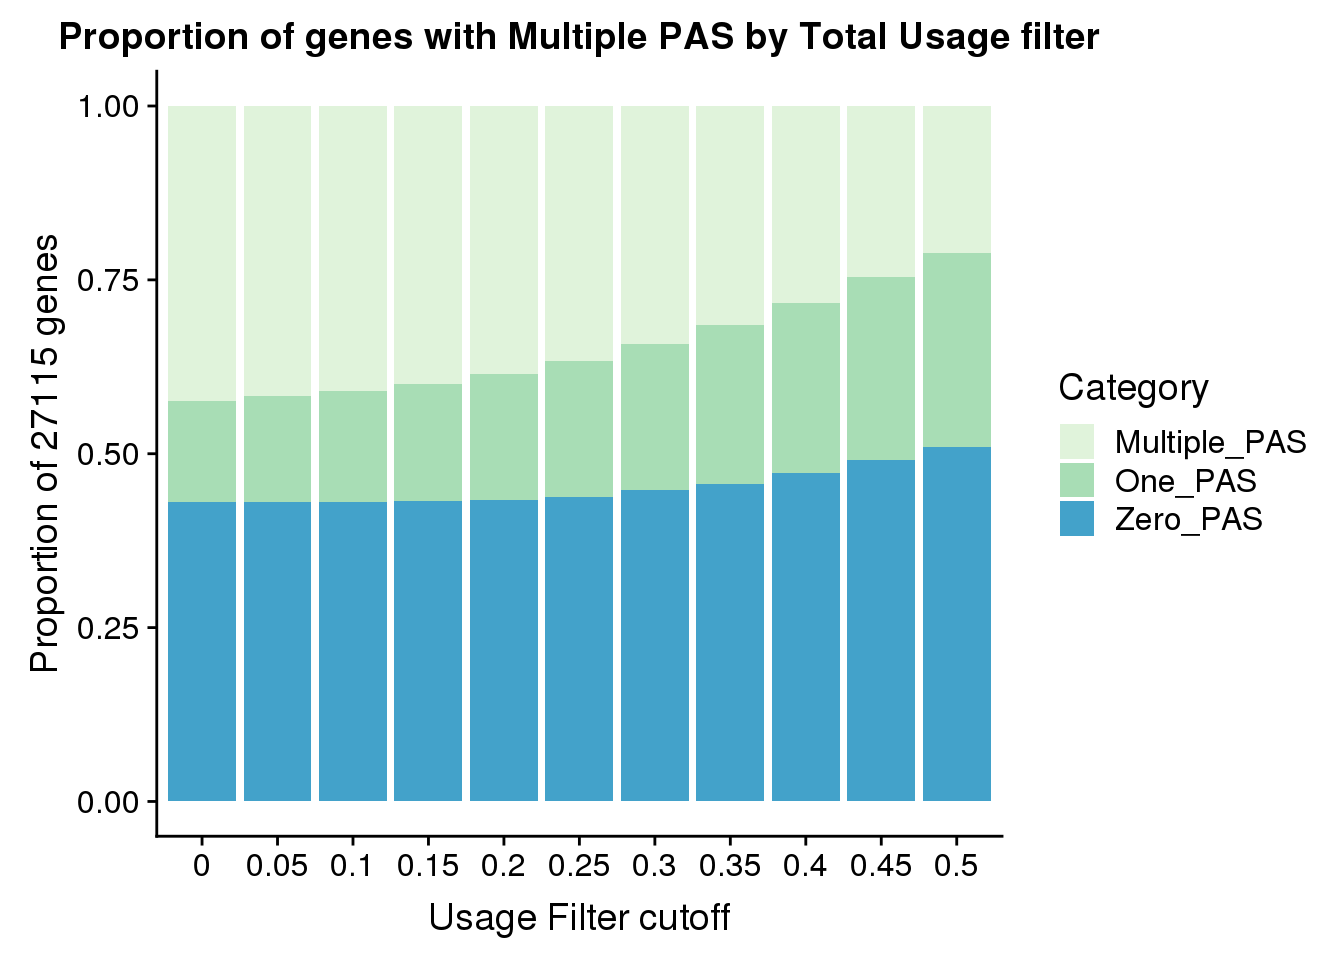
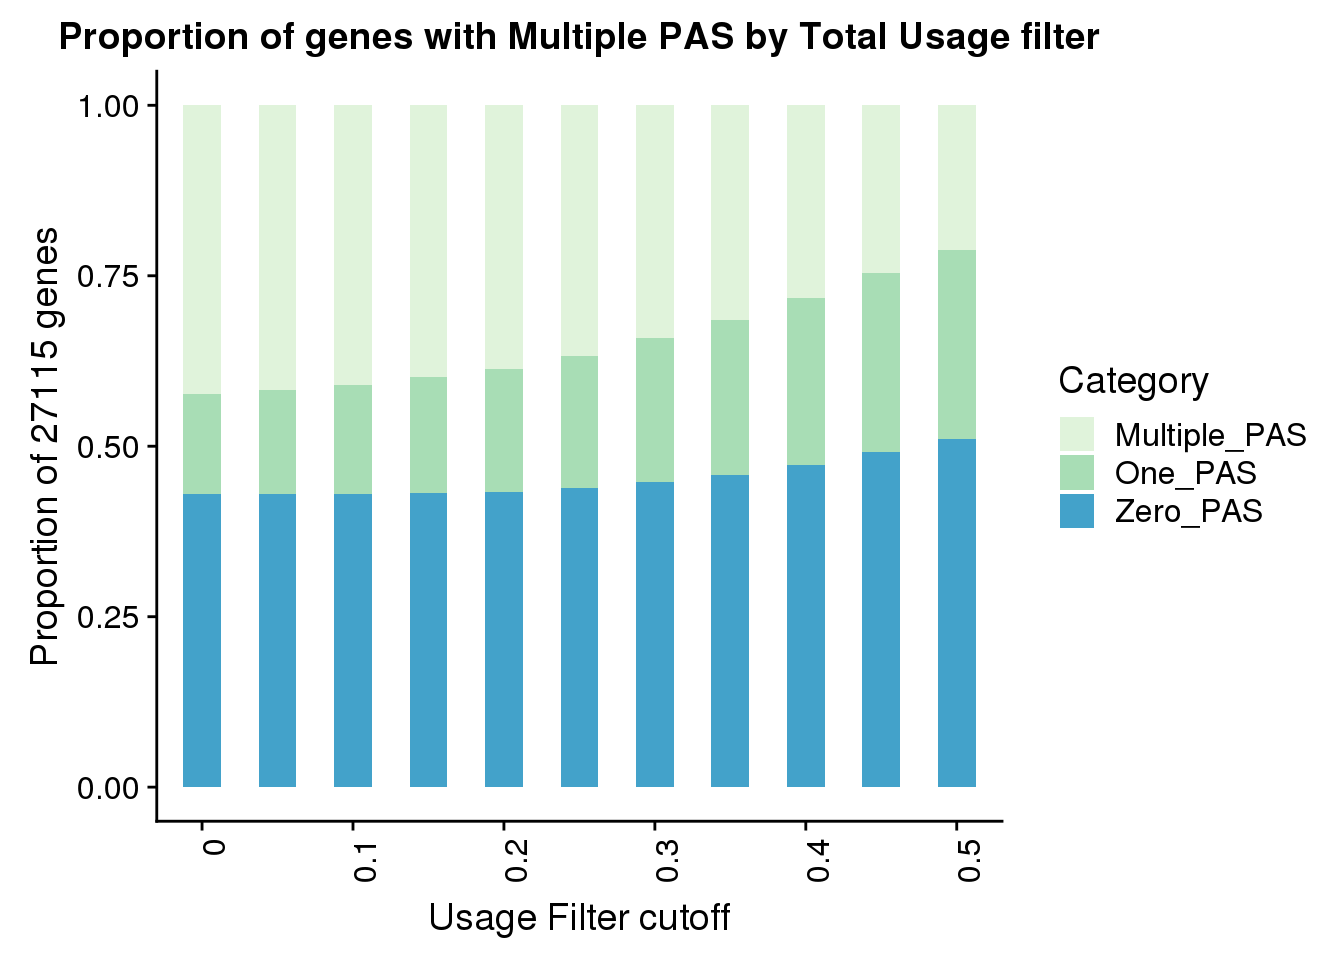
Build site.

Changed region(s): [[0.0, 0.0938, 0.75, 0.9375], [0.7812, 0.375, 0.9688, 0.5625]]

diff --git a/docs/PASdescriptiveplots.html b/docs/PASdescriptiveplots.html
@@ -343,7 +343,7 @@ div.section {
 <div class="tab-content">
 <div id="summary" class="tab-pane fade in active">
 <p>
-<strong>Last updated:</strong> 2019-05-21
+<strong>Last updated:</strong> 2019-05-22
 </p>
 <p>
 <strong>Checks:</strong> <span class="glyphicon glyphicon-ok text-success" aria-hidden="true"></span> 6 <span class="glyphicon glyphicon-exclamation-sign text-danger" aria-hidden="true"></span> 0
@@ -422,10 +422,10 @@ This reproducible <a href="http://rmarkdown.rstudio.com">R Markdown</a> analysis
 <div class="panel panel-default">
 <div class="panel-heading">
 <p class="panel-title">
-<a data-toggle="collapse" data-parent="#workflowr-checks" href="#strongRepositoryversionstrongahrefhttpsgithubcombrimittlemanapaQTLtree2fd13bb267054d96d3d8577887b6473a557e5eedtargetblank2fd13bba"> <span class="glyphicon glyphicon-ok text-success" aria-hidden="true"></span> <strong>Repository version:</strong> <a href="https://github.com/brimittleman/apaQTL/tree/2fd13bb267054d96d3d8577887b6473a557e5eed" target="_blank">2fd13bb</a> </a>
+<a data-toggle="collapse" data-parent="#workflowr-checks" href="#strongRepositoryversionstrongahrefhttpsgithubcombrimittlemanapaQTLtreed3df9c350ef728f099d4faca56938a43dd998102targetblankd3df9c3a"> <span class="glyphicon glyphicon-ok text-success" aria-hidden="true"></span> <strong>Repository version:</strong> <a href="https://github.com/brimittleman/apaQTL/tree/d3df9c350ef728f099d4faca56938a43dd998102" target="_blank">d3df9c3</a> </a>
 </p>
 </div>
[2 lines of base64/hex data omitted]
 <div class="panel-body">
 <p>
 Great! You are using Git for version control. Tracking code development and connecting the code version to the results is critical for reproducibility. The version displayed above was the version of the Git repository at the time these results were generated. <br><br> Note that you need to be careful to ensure that all relevant files for the analysis have been committed to Git prior to generating the results (you can use <code>wflow_publish</code> or <code>wflow_git_commit</code>). workflowr only checks the R Markdown file, but you know if there are other scripts or data files that it depends on. Below is the status of the Git repository when the results were generated:
@@ -435,6 +435,7 @@ Ignored files:
     Ignored:    .DS_Store
     Ignored:    .Rhistory
     Ignored:    .Rproj.user/
+    Ignored:    analysis/figure/
     Ignored:    output/.DS_Store
 
 Untracked files:
@@ -526,8 +527,12 @@ Untracked files:
     Untracked:  code/APAqtl_permuted.out
     Untracked:  code/BothFracDTPlotGeneRegions.err
     Untracked:  code/BothFracDTPlotGeneRegions.out
+    Untracked:  code/BothFracDTPlotGeneRegions_norm.err
+    Untracked:  code/BothFracDTPlotGeneRegions_norm.out
     Untracked:  code/BothFracDTPlotGeneRegions_normalized.sh
     Untracked:  code/DistPAS2Sig.py
+    Untracked:  code/EncodeRNADTPlotGeneRegions.err
+    Untracked:  code/EncodeRNADTPlotGeneRegions.out
     Untracked:  code/FC_UTR.err
     Untracked:  code/FC_UTR.out
     Untracked:  code/FC_UTR.sh
@@ -668,6 +673,7 @@ Untracked files:
 Unstaged changes:
     Modified:   analysis/DiffIsoAnalysis.Rmd
     Modified:   analysis/PASusageQC.Rmd
+    Modified:   analysis/Readdistagainstfeatures.Rmd
     Modified:   analysis/choosePCs.Rmd
     Modified:   analysis/corrbetweenind.Rmd
     Modified:   analysis/nascenttranscription.Rmd
@@ -721,6 +727,40 @@ Message
 </tr>
 </thead>
 <tbody>
+<tr>
+<td>
+Rmd
+</td>
+<td>
+<a href="https://github.com/brimittleman/apaQTL/blob/d3df9c350ef728f099d4faca56938a43dd998102/analysis/PASdescriptiveplots.Rmd" target="_blank">d3df9c3</a>
+</td>
+<td>
+brimittleman
+</td>
+<td>
+2019-05-22
+</td>
+<td>
+fix plots
+</td>
+</tr>
+<tr>
+<td>
+html
+</td>
+<td>
+<a href="https://rawcdn.githack.com/brimittleman/apaQTL/6af55a2e450967786cd727fd0392d030998b45fd/docs/PASdescriptiveplots.html" target="_blank">6af55a2</a>
+</td>
+<td>
+brimittleman
+</td>
+<td>
+2019-05-21
+</td>
+<td>
+Build site.
+</td>
+</tr>
 <tr>
 <td>
 Rmd
@@ -835,12 +875,12 @@ Build site.
 <pre><code>This is workflowr version 1.3.0
 Run ?workflowr for help getting started</code></pre>
 <pre class="r"><code>library(tidyverse)</code></pre>
-<pre><code>── Attaching packages ──────────────────────────────────────────────── tidyverse 1.2.1 ──</code></pre>
+<pre><code>── Attaching packages ──────────────────────────────────────────────────────────────────── tidyverse 1.2.1 ──</code></pre>
 <pre><code>✔ ggplot2 3.1.1       ✔ purrr   0.3.2  
 ✔ tibble  2.1.1       ✔ dplyr   0.8.0.1
 ✔ tidyr   0.8.3       ✔ stringr 1.3.1  
 ✔ readr   1.3.1       ✔ forcats 0.3.0  </code></pre>
-<pre><code>── Conflicts ─────────────────────────────────────────────────── tidyverse_conflicts() ──
+<pre><code>── Conflicts ─────────────────────────────────────────────────────────────────────── tidyverse_conflicts() ──
 ✖ dplyr::filter() masks stats::filter()
 ✖ dplyr::lag()    masks stats::lag()</code></pre>
 <pre class="r"><code>library(reshape2)</code></pre>
@@ -1279,7 +1319,7 @@ FullDF=cbind(FullDF,val=genesbycuttoff_tot(val))
 <p>Melt:</p>
 <pre class="r"><code>fullDF_melt=melt(FullDF,id.vars = &quot;Category&quot;,variable.name = &quot;Cutoff&quot;, value.name = &quot;NGenes&quot;) %&gt;% mutate(propGene=NGenes/nrow(annotation))
 
-ggplot(fullDF_melt,aes(x=Cutoff, y=propGene, by=Category, fill=Category)) + geom_bar( stat=&quot;identity&quot;) + scale_fill_brewer(palette=&quot;GnBu&quot;) + labs(title=&quot;Proportion of genes with Multiple PAS by Total Usage filter&quot;,y=&quot;Proportion of 27115 genes&quot;, x=&quot;Usage Filter cutoff&quot;)</code></pre>
+ggplot(fullDF_melt,aes(x=Cutoff, y=propGene, by=Category, fill=Category)) + geom_bar( stat=&quot;identity&quot;,width = .5) + scale_fill_brewer(palette=&quot;GnBu&quot;) + labs(title=&quot;Proportion of genes with Multiple PAS by Total Usage filter&quot;,y=&quot;Proportion of 27115 genes&quot;, x=&quot;Usage Filter cutoff&quot;) + theme(axis.text.x = element_text(angle = 90, hjust = 1)) + scale_x_discrete(name=&quot;Usage Filter cutoff&quot;, breaks=c(&quot;0&quot;,&quot;0.1&quot;,&quot;0.2&quot;, &quot;0.3&quot;, &quot;0.4&quot;,&quot;0.5&quot;))</code></pre>
 <p><img src="figure/PASdescriptiveplots.Rmd/unnamed-chunk-13-1.png" width="672" style="display: block; margin: auto;" /></p>
 <p>
 <button type="button" class="btn btn-default btn-xs btn-workflowr btn-workflowr-fig" data-toggle="collapse" data-target="#fig-unnamed-chunk-13-1">
@@ -1431,7 +1471,7 @@ FullDF_loc=cbind(FullDF_loc,val=locbycutoff_tot(val))
 <p>Melt:</p>
 <pre class="r"><code>FullDF_loc_melt=melt(FullDF_loc,id.vars = &quot;Location&quot;,variable.name = &quot;Cutoff&quot;, value.name = &quot;NPas&quot;) %&gt;% group_by(Cutoff) %&gt;%  mutate(propPAS=NPas/sum(NPas))
 
-totplotloc=ggplot(FullDF_loc_melt,aes(x=Cutoff, y=propPAS, by=Location, fill=Location)) + geom_bar( stat=&quot;identity&quot;) + scale_fill_brewer(palette=&quot;GnBu&quot;) + labs(title=&quot;PAS location: Total Fraction&quot;,y=&quot;Proportion of PAS&quot;, x=&quot;Usage Filter cutoff&quot;)</code></pre>
+totplotloc=ggplot(FullDF_loc_melt,aes(x=Cutoff, y=propPAS, by=Location, fill=Location)) + geom_bar(width=.5, stat=&quot;identity&quot;) + scale_fill_brewer(palette=&quot;GnBu&quot;) + labs(title=&quot;PAS location\n Total Fraction&quot;,y=&quot;Proportion of PAS&quot;, x=&quot;Usage Filter cutoff&quot;)+ theme(axis.text.x = element_text(angle = 90, hjust = 1)) + scale_x_discrete(name=&quot;Usage Filter cutoff&quot;, breaks=c(&quot;0&quot;,&quot;0.1&quot;,&quot;0.2&quot;, &quot;0.3&quot;, &quot;0.4&quot;,&quot;0.5&quot;))</code></pre>
 <p>Nuclear</p>
 <pre class="r"><code>locbycutoff_nuc=function(fraction){
 nucapaMeananno_filt=nucapaMeananno %&gt;% filter(meanUsage &gt;=fraction) %&gt;% separate(ID, into=c(&quot;chrom&quot;, &quot;start&quot;,&quot;end&quot;, &quot;peakID&quot;),sep=&quot;:&quot;) %&gt;% separate(peakID, into=c(&quot;Gene&quot;,&quot;loc&quot;, &quot;strand&quot;, &quot;peak&quot;),sep=&quot;_&quot;) %&gt;% group_by(loc) %&gt;% summarise(PerLoc=n()) %&gt;%filter(loc!= &quot;008559&quot;)
@@ -1463,10 +1503,49 @@ NucFullDF_loc=cbind(NucFullDF_loc,val=locbycutoff_nuc(val))
 <p>Melt:</p>
 <pre class="r"><code>NucFullDF_locMelt=melt(NucFullDF_loc,id.vars = &quot;Location&quot;,variable.name = &quot;Cutoff&quot;, value.name = &quot;NPas&quot;) %&gt;% group_by(Cutoff) %&gt;%  mutate(propPAS=NPas/sum(NPas))
 
-nucplotloc=ggplot(NucFullDF_locMelt,aes(x=Cutoff, y=propPAS, by=Location, fill=Location)) + geom_bar( stat=&quot;identity&quot;) + scale_fill_brewer(palette=&quot;GnBu&quot;) + labs(title=&quot;PAS location: Nuclear Fraction&quot;,y=&quot;Proportion of PAS&quot;, x=&quot;Usage Filter cutoff&quot;)</code></pre>
+nucplotloc=ggplot(NucFullDF_locMelt,aes(x=Cutoff, y=propPAS, by=Location, fill=Location)) + geom_bar(width = .5, stat=&quot;identity&quot;) + scale_fill_brewer(palette=&quot;GnBu&quot;) + labs(title=&quot;PAS location\n Nuclear Fraction&quot;,y=&quot;Proportion of PAS&quot;, x=&quot;Usage Filter cutoff&quot;)+ theme(axis.text.x = element_text(angle = 90, hjust = 1)) + scale_x_discrete(name=&quot;Usage Filter cutoff&quot;, breaks=c(&quot;0&quot;,&quot;0.1&quot;,&quot;0.2&quot;, &quot;0.3&quot;, &quot;0.4&quot;,&quot;0.5&quot;))</code></pre>
 <p>Plot next to eachother</p>
 <pre class="r"><code>plot_grid(nucplotloc, totplotloc)</code></pre>
 <p><img src="figure/PASdescriptiveplots.Rmd/unnamed-chunk-24-1.png" width="672" style="display: block; margin: auto;" /></p>
+<p>
+<button type="button" class="btn btn-default btn-xs btn-workflowr btn-workflowr-fig" data-toggle="collapse" data-target="#fig-unnamed-chunk-24-1">
+Past versions of unnamed-chunk-24-1.png
+</button>
+</p>
+<div id="fig-unnamed-chunk-24-1" class="collapse">
+<div class="table-responsive">
+<table class="table table-condensed table-hover">
+<thead>
+<tr>
+<th>
+Version
+</th>
+<th>
+Author
+</th>
+<th>
+Date
+</th>
+</tr>
+</thead>
+<tbody>
+<tr>
+<td>
+<a href="https://github.com/brimittleman/apaQTL/blob/6af55a2e450967786cd727fd0392d030998b45fd/docs/figure/PASdescriptiveplots.Rmd/unnamed-chunk-24-1.png" target="_blank">6af55a2</a>
+</td>
+<td>
+brimittleman
+</td>
+<td>
+2019-05-21
+</td>
+</tr>
+</tbody>
+</table>
+</div>
+</div>
+<pre class="r"><code>totplotloc</code></pre>
+<p><img src="figure/PASdescriptiveplots.Rmd/unnamed-chunk-25-1.png" width="672" style="display: block; margin: auto;" /></p>
 <br>
 <p>
 <button type="button" class="btn btn-default btn-workflowr btn-workflowr-sessioninfo" data-toggle="collapse" data-target="#workflowr-sessioninfo" style="display: block;">
